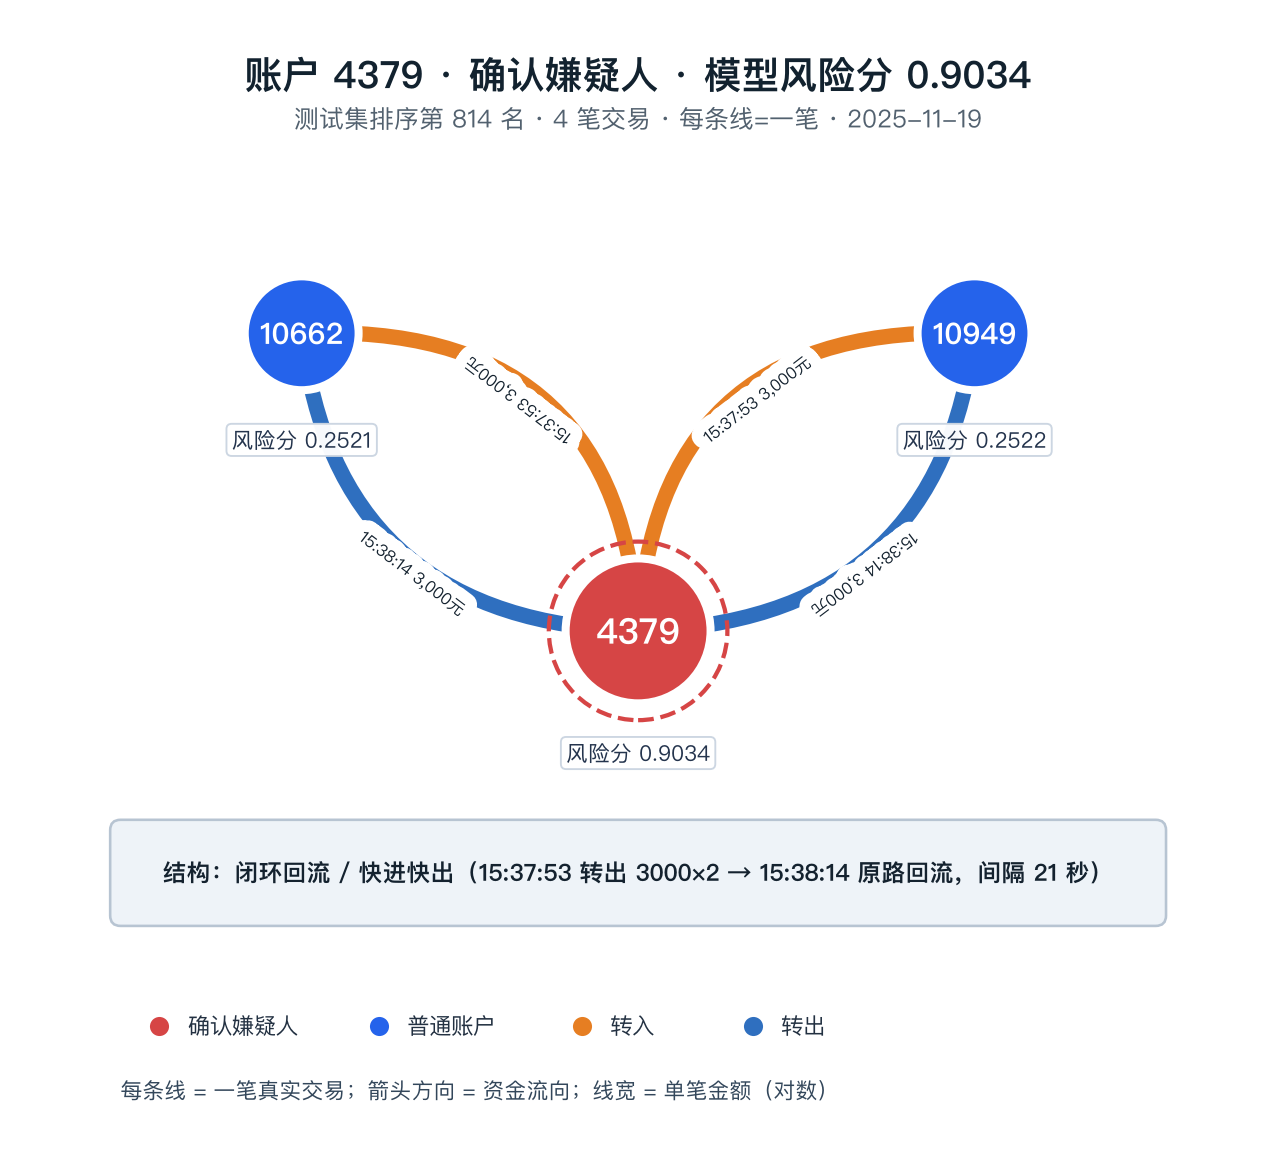
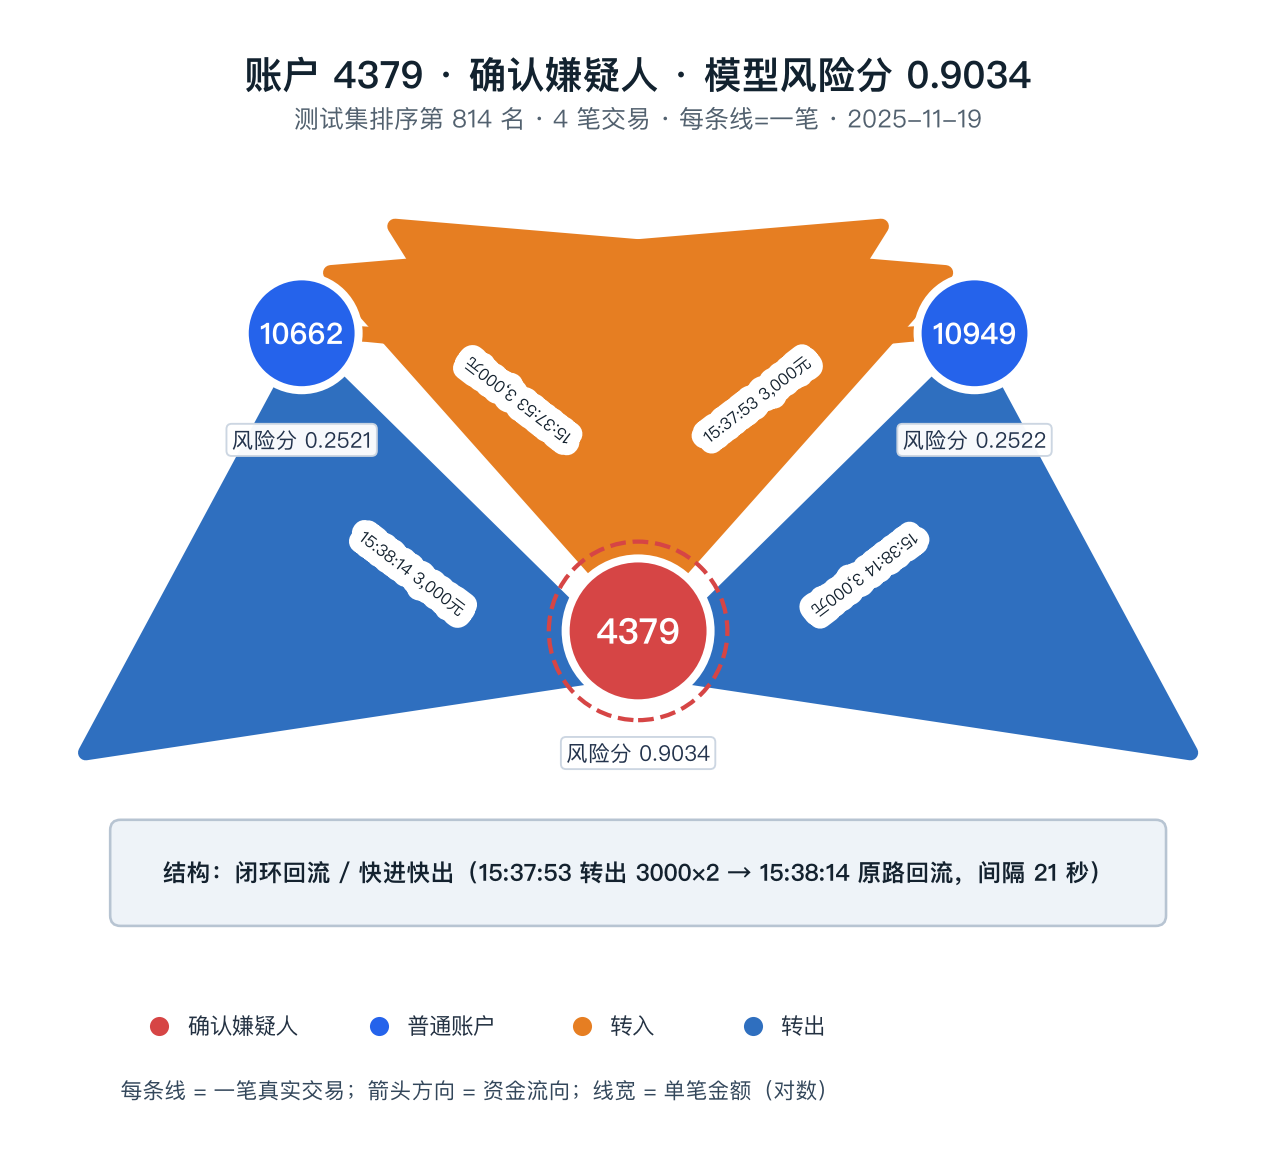
附录D图谱恢复适中尺寸方向箭头

Changed region(s): [[0.0611, 0.1864, 0.9475, 0.6523]]

diff --git a/src/27_render_appendix_d_graphs.py b/src/27_render_appendix_d_graphs.py
@@ -112,8 +112,9 @@ def draw_edges(ax, fig, pos, edges: list[dict], root: int, label_fn, fontsize: f
         ru = 0.66 if u == root else 0.54
         rv = 0.66 if v == root else 0.54
         arrow = FancyArrowPatch(p1, p2, connectionstyle=f"arc3,rad={rad}",
-                                arrowstyle="-|>", mutation_scale=24, lw=width,
-                                color=color, shrinkA=ru, shrinkB=rv, zorder=4)
+                                arrowstyle="-|>,head_width=4.5,head_length=6.0",
+                                mutation_scale=26, lw=width,
+                                color=color, shrinkA=ru, shrinkB=rv, zorder=5)
         ax.add_patch(arrow)
         txt = label_fn(e, incoming)
         placed = None
